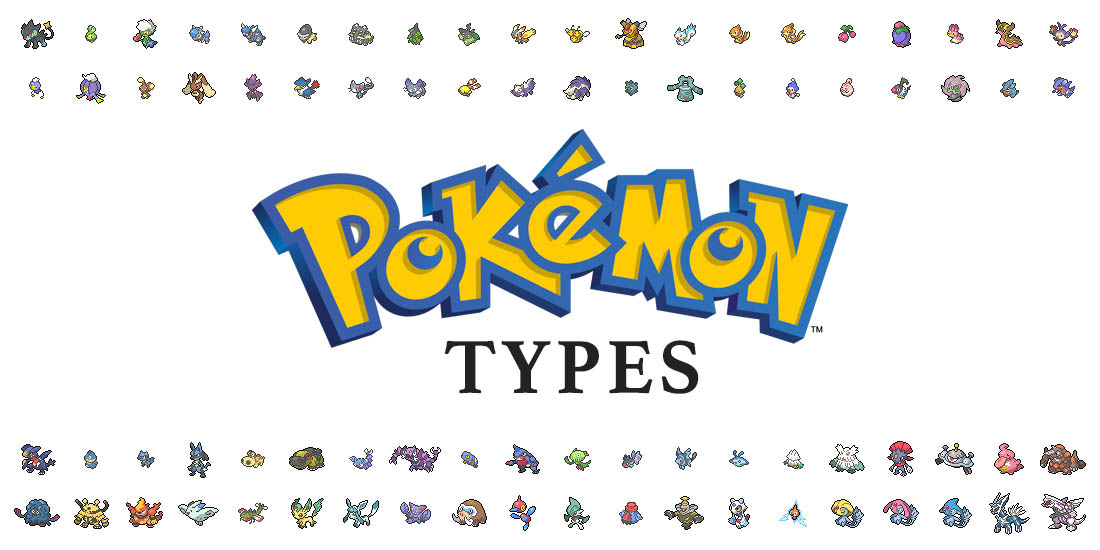
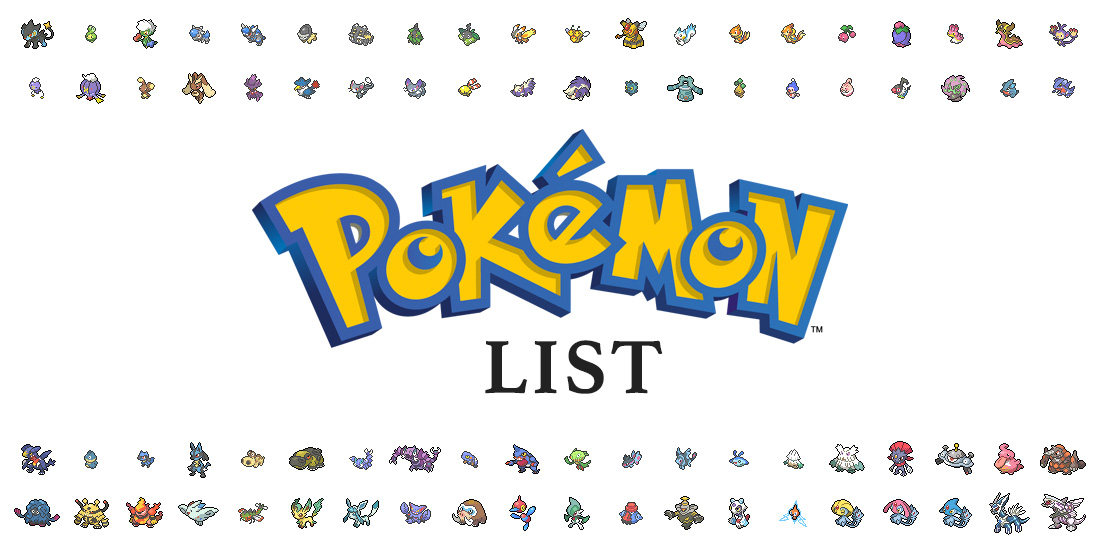
Some pkmn list updates
- Change all mentions of "type checker" to "list"
- Allow header to be clicked to reset search
- Remove autofocus since it doesn't work in Safari anyway and it was causing focus style issues

diff --git a/pkmnlist/index.html b/pkmnlist/index.html
@@ -5,31 +5,33 @@
 	<meta http-equiv="X-UA-Compatible" content="IE=edge">
 	<meta name="viewport" content="width=device-width, initial-scale=1">
 	<meta name="description" content="A searchable list of all Pokémon and their types">
-	<title>Pokémon Type Checker - Search for a Pokémon to find its type(s)</title>
+	<title>Pokémon List - A searchable list of all Pokémon, their types, and anything else you need to know</title>
 	<link rel="shortcut icon" href="assets/favicon.png?d=3821">
-	<link rel="apple-touch-icon-precomposed" href="assets/touch-icon.png?d=22821a">
-	<meta itemprop="name" content="Pokémon Type Checker">
-    <meta itemprop="description" content="A searchable list of all Pokémon and their types">
+	<link rel="apple-touch-icon-precomposed" href="assets/touch-icon.jpg?d=32521">
+	<meta itemprop="name" content="Pokémon list">
+    <meta itemprop="description" content="A searchable list of all Pokémon, their types, and anything else you need to know">
     <meta name="twitter:card" content="summary_large_image">
-    <meta name="twitter:title" content="Pokémon Type Checker">
-    <meta name="twitter:description" content="A searchable list of all Pokémon and their types">
+    <meta name="twitter:title" content="Pokémon Liost">
+    <meta name="twitter:description" content="A searchable list of all Pokémon, their types, and anything else you need to know">
     <meta name="twitter:site" content="@kstardesigns">
     <meta name="twitter:creator" content="@kstardesigns">
-    <meta name="twitter:image" content="https://kylephx.com/pkmnlist/assets/twitter-card.jpg?d=31121" class="twitter-image">
-    <meta name="twitter:image:alt" content="Pokémon Type Checker - 80 Pokémon from Generation 4 are shown">
-    <meta property="og:title" content="Pokémon Type Checker">
-    <meta propertyname="og:description" content="A searchable list of all Pokémon and their types">
+    <meta name="twitter:image" content="https://kylephx.com/pkmnlist/assets/twitter-card.jpg?d=32521" class="twitter-image">
+    <meta name="twitter:image:alt" content="Pokémon List - 80 Pokémon from Generation 4 are shown">
+    <meta property="og:title" content="Pokémon Type List">
+    <meta propertyname="og:description" content="A searchable list of all Pokémon, their types, and anything else you need to know">
     <meta property="og:url" content="https://kylephx.com/pkmnlist">
-    <meta property="og:image" content="https://kylephx.com/pkmnlist/assets/facebook-share.jpg?d=31121">
-    <meta property="og:site_name" content="Pokémon Type Checker">
+    <meta property="og:image" content="https://kylephx.com/pkmnlist/assets/facebook-share.jpg?d=32521">
+    <meta property="og:site_name" content="Pokémon List">
     <meta property="og:type" content="website">
 	<link rel="stylesheet" href="css/styles.css">
 </head>
 <body>
 	<div id="app">
-		<h2 class="page-header">Pokémon type checker</h2>
+		<header>
+			<h2 class="page-header" @click="cancelSearch">Pokémon list</h2>
+		</header>
 		<div class="search-box">
-			<input class="query" type="text" v-model="query" placeholder="Search by Pokémon name or type" autocomplete="off" autocorrect="off" spellcheck="false" autofocus>
+			<input class="query" type="text" v-model="query" placeholder="Search by Pokémon name or type" autocomplete="off" autocorrect="off" spellcheck="false">
 			<div class="cancel-search" v-if="query" @click="cancelSearch">&times;</div>
 		</div>
 		<div class="result-count">{{ filteredList.length }} Pokémon shown<span v-if="query !== 'all'"> <span class="separator">|</span> <button @click="showAll">Show all</button></div>

diff --git a/pkmnlist/css/styles.css b/pkmnlist/css/styles.css
@@ -11,15 +11,22 @@ body {
 a {
   text-decoration: none; }
 
+header {
+  display: flex;
+  flex-direction: column;
+  justify-content: center; }
+
 .page-header {
   text-align: center;
-  margin: 0 0 15px; }
+  display: inline-block;
+  margin: 0 0 15px;
+  cursor: pointer; }
 
 .search-box {
   position: relative;
   width: 100%;
   max-width: 480px;
-  margin: 10px auto 3px;
+  margin: 0 auto 3px;
   display: block; }
 
 .result-count {
@@ -54,7 +61,7 @@ a {
   right: 0;
   position: absolute;
   font-size: 24px;
-  line-height: 33px;
+  line-height: 34px;
   padding: 0 10px;
   z-index: 99;
   cursor: pointer; }

diff --git a/pkmnlist/css/styles.scss b/pkmnlist/css/styles.scss
@@ -15,16 +15,24 @@ a {
 	text-decoration: none;
 }
 
+header {
+	display: flex;
+	flex-direction: column;
+	justify-content: center;
+}
+
 .page-header {
 	text-align: center;
+	display: inline-block;
 	margin: 0 0 15px;
+	cursor: pointer;
 }
 
 .search-box {
 	position: relative;
 	width: 100%;
 	max-width: 480px;
-	margin: 10px auto 3px;
+	margin: 0 auto 3px;
     display: block;
 }
 
@@ -68,7 +76,7 @@ a {
     right: 0;
     position: absolute;
     font-size: 24px;
-    line-height: 33px;
+    line-height: 34px;
     padding: 0 10px;
 	z-index: 99;
 	cursor: pointer;
